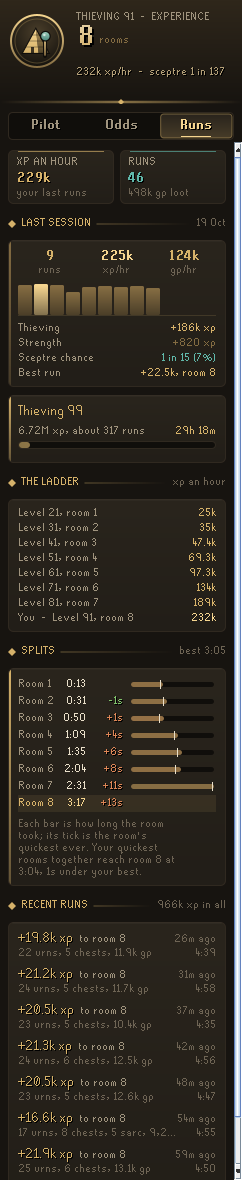
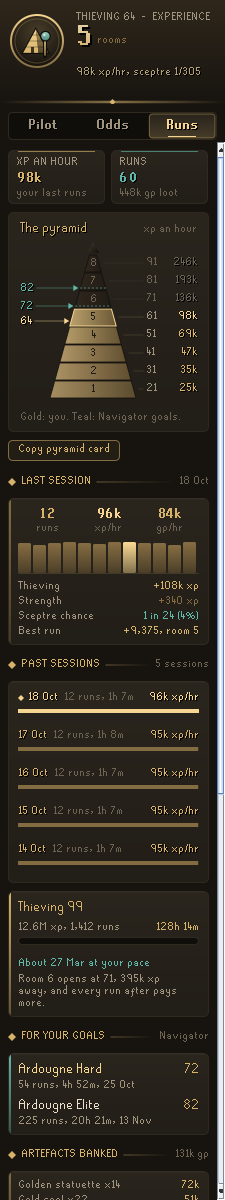
Rewrite the README for players, with current screenshots

diff --git a/README.md b/README.md
@@ -1,69 +1,70 @@
 # Codex Plunder Pilot
 
-**Every Pyramid Plunder run, planned for your Thieving level.** Which rooms to walk straight through, which urns are worth the clock, when the grand gold chest and the sarcophagus pay, and your odds of the Pharaoh's sceptre. During a run it replans every tick against the five-minute clock, says the one thing to do next, and outlines it in the room.
+**Every Pyramid Plunder run, planned for your Thieving level.**
 
-It is part of the **Codex** suite, with [Codex Navigator](https://github.com/Nubles/OSRS-Codex-Navigator), [Codex Guardian](https://github.com/Nubles/OSRS-Codex-Guardian), [Codex Gear Roadmap](https://github.com/Nubles/OSRS-Codex-Gear-Roadmap), [Codex Session Chronicle](https://github.com/Nubles/OSRS-Codex-Session-Chronicle), [Codex Ledger](https://github.com/Nubles/OSRS-Codex-Ledger) and [Codex Quartermaster](https://github.com/Nubles/OSRS-Codex-Quartermaster), and shares their look: warm ink, aged gold and the game's own fonts.
+Which rooms to walk straight through, which urns are worth the clock, when the grand gold chest and the sarcophagus pay, and your odds of the Pharaoh's sceptre. During a run it replans every tick against the five-minute clock, says the one thing to do next, and outlines it in the room.
+
+Part of the **Codex** suite of RuneLite plugins. They share one look: warm ink, aged gold and the game's own fonts.
 
 <p align="center">
-  <img src="docs/screenshots/pilot.png" width="225" alt="Pilot">
-  <img src="docs/screenshots/run-urns.png" width="225" alt="During a run">
-  <img src="docs/screenshots/odds.png" width="225" alt="Odds">
+  <img src="docs/screenshots/pilot.png" width="225" alt="Pilot: the route and the ready check">
+  <img src="docs/screenshots/odds.png" width="225" alt="Odds: your sceptre luck">
+  <img src="docs/screenshots/runs.png" width="225" alt="Runs: the pyramid, sessions and splits">
 </p>
 
 ## What it does
 
-- **Pilot.** Pick what you are running for: **Experience** or the **Sceptre**. The route lists every room your level opens, what to do in each (pass straight through, so many urns, the chest, the sarcophagus) and what that pays, with the sceptre odds beside every chest and sarcophagus worth opening. Rooms your level has not opened yet are shown faded with the level that opens them.
-- **During a run.** The crest becomes the clock, draining from gold to ember to blood. The next step card says exactly what to do: pass the spear trap, search 9 urns, open the chest, find the tomb door (and how many of the four you have tried). The plan is redone every tick from what is left in the room and on the clock, so a slow room shortens what follows instead of costing you the deepest room's urns. When everything worth doing is done with time to spare, it tells you to leave and start a fresh run.
-- **In the room.** The urns worth searching are outlined and numbered 1, 2, 3 in the shortest walk from where you stand, worked out exactly for the room, so you never zigzag. When the plan wants fewer urns than the room holds, it picks the ones that make the shortest walk. The chest is outlined in teal, the sarcophagus in violet, the spear trap in ember and the untried tomb doors in gold, each only when it is the next step. Urns the plan skips stay dark.
-- **Ready check.** Before you go in: enough free slots for the artefacts a run like yours turns up (a full pack quietly stops the loot), low hitpoints, whether a snake charm helps at your level (below 51) or slows you down, whether a lockpick is worth the door experience it halves, and Protect from Melee against the scarab swarm and mummies if you have the Prayer. It also says what the artefacts you are carrying are worth.
-- **When something goes wrong.** Mid-run the next step changes to what needs doing first: Protect from Melee (or keep moving) when a swarm or mummy is on you, eat when your hitpoints are low enough for a snake to hurt, and drop the cheapest artefacts when your pack is full.
-- **Odds.** Every grand gold chest and sarcophagus you open is counted by room. The page shows how many sceptres that should have turned up, how many did, and how lucky or dry you are against everyone who opened as many. For your plan it gives the chance each run, the runs to even odds and to nine in ten, and the chance in an hour.
-- **Runs.** Your Thieving experience an hour over your last runs, the way to a goal level in runs and hours, when the next room opens, a ladder of the experience an hour at every room's level, and your recent runs with what each earned, how long it took and the artefacts it turned up. A sceptre run is marked in teal.
-- **Splits.** Every run keeps the moment it entered each room, like a speedrunner's splits. The Runs page shows your last run to your deepest room against your best before it, room by room: when you entered, how far ahead or behind, and a bar for how long each room took with a tick at its quickest crossing ever (a gold diamond when you matched it). Your quickest rooms strung together give the run you have in you. During a run a Split tile says how far ahead or behind your best you entered the room, the in-game plaque flashes that split for the first ten seconds in each room, and the run summary calls out a new best. Runs are only compared with runs for the same goal that reached the same room.
-- **Session.** Runs played back to back (no break over twenty minutes) make a session: runs, experience and artefact coins an hour with the walk back counted, a bar for every run, your best run, and the sceptre chance the session's chests and sarcophagi carried together.
-- **Past sessions.** Below the session card, every sitting the runs kept show, newest first: the day, how many runs and how long, and the experience an hour, with a gauge against your best session (of three runs or more, so one lucky run is not a pace) and a teal mark for a sceptre found. A line says how far this session runs above or below your best.
-- **Room openings.** When a level gained in play opens a deeper room, a line in the chat box says so with what a run pays there now against before, and the experience an hour that makes. When the next room is three runs away or fewer, the run summary says how many runs like the last one it takes. A level read at login, or gained on another device, is not announced.
-- **When, not just how many runs.** From the sessions of the last four weeks the Pilot learns how much you play here, and turns run counts into dates: on the Odds page *even odds of a sceptre by 25 Oct, nine in ten by 6 Nov*, and on the Runs page the day your goal level should land. It needs two sessions in the last four weeks, and spreads a first busy weekend over a week so it does not read as playing every day.
-- **For your goals.** With [Codex Navigator](https://github.com/Nubles/OSRS-Codex-Navigator) goals pinned, the Runs page lists every unfinished goal that needs more Thieving (*Ardougne Hard, 72: 9 runs, 48m, 20 Oct*), Navigator's focus goal first, with the runs, play time and date it takes here at your pace. It only reads what Navigator saves and shows nothing without it.
-- **Artefacts banked.** The Runs page lists the artefacts waiting in your bank, each with what it fetches at Grand Exchange prices, and their total. It counts them when you open your bank, or takes [Codex Bank Steward](https://github.com/Nubles/OSRS-Codex-Bank-Steward)'s saved bank when that is newer, and says which look it used and when.
-- **Pharaoh's sceptre.** The ready check warns when your sceptre is out of charges, counts its charges once the game has named them (and says when a count is from its last check), and suggests bringing it when it is in your bank, or recharging it first when the banked one is empty: its Jalsavrah teleport lands right at the pyramid. Before it has seen your bank itself, it takes the bank [Codex Bank Steward](https://github.com/Nubles/OSRS-Codex-Bank-Steward) last saved, which holds everything including a freshly found sceptre, else the gear [Codex Gear Roadmap](https://github.com/Nubles/OSRS-Codex-Gear-Roadmap) saved, which misses a fresh one.
-- **The pyramid, and a card of it.** The Runs page draws the experience an hour at every room's level as the pyramid itself, eight tiers with room 1 at the base, your Thieving level and any Navigator goal levels marked up its side and a gilt capstone once a sceptre has come out. **Copy pyramid card** copies a picture of it to paste into a chat, beside your experience an hour, runs made, the sceptre and your best session. Turn off **Name on cards** to share it without your character's name.
-- **Plaque.** A slim plaque in the game view during a run with the room, the clock and the next step.
-- **Ready plaque.** In the pyramid before a run, the same plaque raises the ready check's most urgent point, a warning before a tip: *Before you go: 2 free slots. A run like this turns up about 6 artefacts; a full pack stops the loot.* It stays away when everything is in order, and can be turned off.
-- **Run summary.** When a run ends, a line in the chat box with the room reached, the experience, the artefacts, the sceptre odds the run carried, a new best to the deepest room and the session's rate.
+**Pilot.** Pick what you are running for: **Experience** or the **Sceptre**. The route lists every room your level opens, what to do in each (walk through, so many urns, the chest, the sarcophagus) and what that pays, with the sceptre odds beside every chest and sarcophagus worth opening.
+
+**Ready check.** Before you go in: enough free slots for the artefacts a run turns up, low hitpoints, whether a snake charm or lockpick helps at your level, Protect from Melee against the swarm and mummies, and your sceptre's charges.
+
+**During a run.** The crest becomes the clock. The next-step card says exactly what to do: pass the trap, search 9 urns, open the chest, find the door. The plan is redone every tick from what is left, so a slow room shortens what follows instead of costing you the deepest room's urns. In the room, the urns worth searching are outlined and numbered in the shortest walk; the chest, sarcophagus, trap and untried doors light up when each is next. When a swarm or mummy is on you, or your pack is full, the next step says what to do first.
 
 <p align="center">
-  <img src="docs/screenshots/pilot-sceptre.png" width="225" alt="Hunting the sceptre">
-  <img src="docs/screenshots/run-door.png" width="225" alt="Finding the door">
-  <img src="docs/screenshots/runs.png" width="225" alt="Runs">
+  <img src="docs/screenshots/in-run.png" width="225" alt="During a run">
+  <img src="docs/screenshots/plaque.png" width="246" alt="The run plaque">
 </p>
+
+**Odds.** Every grand gold chest and sarcophagus you open is counted by room. The page shows how many sceptres you should have had, how many you did, and how lucky or dry that is. For your plan it gives the chance each run, the runs to even odds and to nine in ten, and the date those land at your pace.
+
+**Runs.** Your experience an hour over your last runs, drawn as the pyramid itself with your level and any goal levels up its side. Under it: your session with a bar for every run, your past sessions against your best, splits for each room against your quickest, and the artefacts waiting in your bank with what they fetch. **Copy pyramid card** copies a picture of it to paste into a chat.
+
 <p align="center">
-  <img src="docs/screenshots/pilot-ready-low.png" width="225" alt="Ready check">
-  <img src="docs/screenshots/run-danger.png" width="225" alt="A swarm on you">
-  <img src="docs/screenshots/runs-history.png" width="225" alt="Past sessions and artefacts banked">
+  <img src="docs/screenshots/pyramid-card.png" width="330" alt="The pyramid card">
 </p>
-<p align="center">
-  <img src="docs/screenshots/plaque.png" alt="Plaque">
-  <img src="docs/screenshots/plaque-late.png" alt="Plaque with the clock nearly out">
-  <img src="docs/screenshots/plaque-split.png" alt="Plaque flashing a room split">
-</p>
+
+**Chat.** When a run ends, a line with the room reached, the experience, the artefacts and the sceptre odds it carried. When a new level opens a deeper room, a line says so and what a run pays there now.
+
+## Settings that matter
+
+- **Highlight the next step** (on): the outlines and urn numbers in the room.
+- **Run plaque** and **Ready plaque** (both on): the plaque during a run, and the ready check's most urgent point before one.
+- **Run summary in chat** and **Room openings in chat** (both on).
+- **Goal level** (99): the Thieving level the Runs page counts toward.
+- **Name on cards** (on): turn off to share the pyramid card without your character's name.
+
+## With other Codex plugins
+
+Plunder Pilot works on its own. With other Codex plugins installed, it reads what they save and never changes it:
+
+- **[Codex Navigator](https://github.com/Nubles/OSRS-Codex-Navigator):** every unfinished goal that needs more Thieving is listed on the Runs page, with the runs, play time and date it takes at your pace.
+- **[Codex Bank Steward](https://github.com/Nubles/OSRS-Codex-Bank-Steward):** its saved bank, when newer than the Pilot's own look, counts your banked artefacts and finds a sceptre in your bank before you open it.
+- **[Codex Gear Roadmap](https://github.com/Nubles/OSRS-Codex-Gear-Roadmap):** without Bank Steward, its saved gear finds a banked sceptre (but not a freshly found one, which it does not track).
 
 ## How it plans
 
 The figures are the game's, as the Old School wiki records them: experience for each room's urns, chest and door, the Strength experience from each sarcophagus, and the sceptre rate per chest or sarcophagus (1 in 4,200 in room 1 down to 1 in 650 in rooms 7 and 8).
 
-Getting through each room (the trap, the true door among four and the walk) costs a fixed time. What is left of the five minutes is shared out among the urns, chests and sarcophagi by what your goal values most per tick, which is why the deepest two rooms get the urns and the shallow rooms are walked through:
+Getting through each room costs a fixed time. What is left of the five minutes goes to the urns, chests and sarcophagi your goal values most per tick:
 
-- **Experience** opens the chests from room 4 on first (they are quick and pay in artefacts and sceptre chances), then searches urns from the best-paying room down while the clock allows.
-- **Sceptre** opens every chest and the sarcophagi from room 4 on, where their odds are best, before any urn. At 91 that is a sceptre chance of about 1 in 69 a run, against 1 in 137 for an experience run.
+- **Experience** opens the chests from room 4 on first, then searches urns from the best-paying room down while the clock allows.
+- **Sceptre** opens every chest and the sarcophagi from room 4 on, where their odds are best, before any urn.
 
-The plan starts from typical times (an urn about six seconds with the odd failure, a room's trap, door and walk about fifteen) and learns your own from your runs. Chests and sarcophagi come last in each room so a scarab swarm or mummy has the least time to chase you.
-
-Everything is saved per account in your RuneLite profile.
+The plan starts from typical times and learns your own from your runs. Everything is saved per account in your RuneLite profile. A save damaged on disk keeps all it can: one unreadable run or setting is lost alone.
 
 ## Rules posture
 
-Codex Plunder Pilot only reads what the game already shows you: your Thieving, Strength, Hitpoints and Prayer, your pack and bank, the room, the clock, which urns, chests and doors are open, and whether a swarm or mummy is after you. It outlines objects and draws its own panel and plaque. It does not click, change menus, or send anything over the network; you do every click.
+Codex Plunder Pilot only reads what the game already shows you: your skills, pack and bank, the room, the clock, which urns, chests and doors are open, and whether a swarm or mummy is after you. It outlines objects and draws its own panel and plaque. It does not click, change menus, or send anything over the network; you do every click.
 
 ## Development
 
@@ -72,7 +73,7 @@ Codex Plunder Pilot only reads what the game already shows you: your Thieving, S
 ./gradlew run     # launch RuneLite with the plugin loaded
 ```
 
-The planner, odds and run tracking (`core/`) are plain Java with unit tests; the panel and overlays are in `ui/` and `overlay/`.
+The planner, odds and run tracking (`core/`) are plain Java with unit tests. The panel and overlays are in `ui/` and `overlay/`.
 
 ## Licence
 
